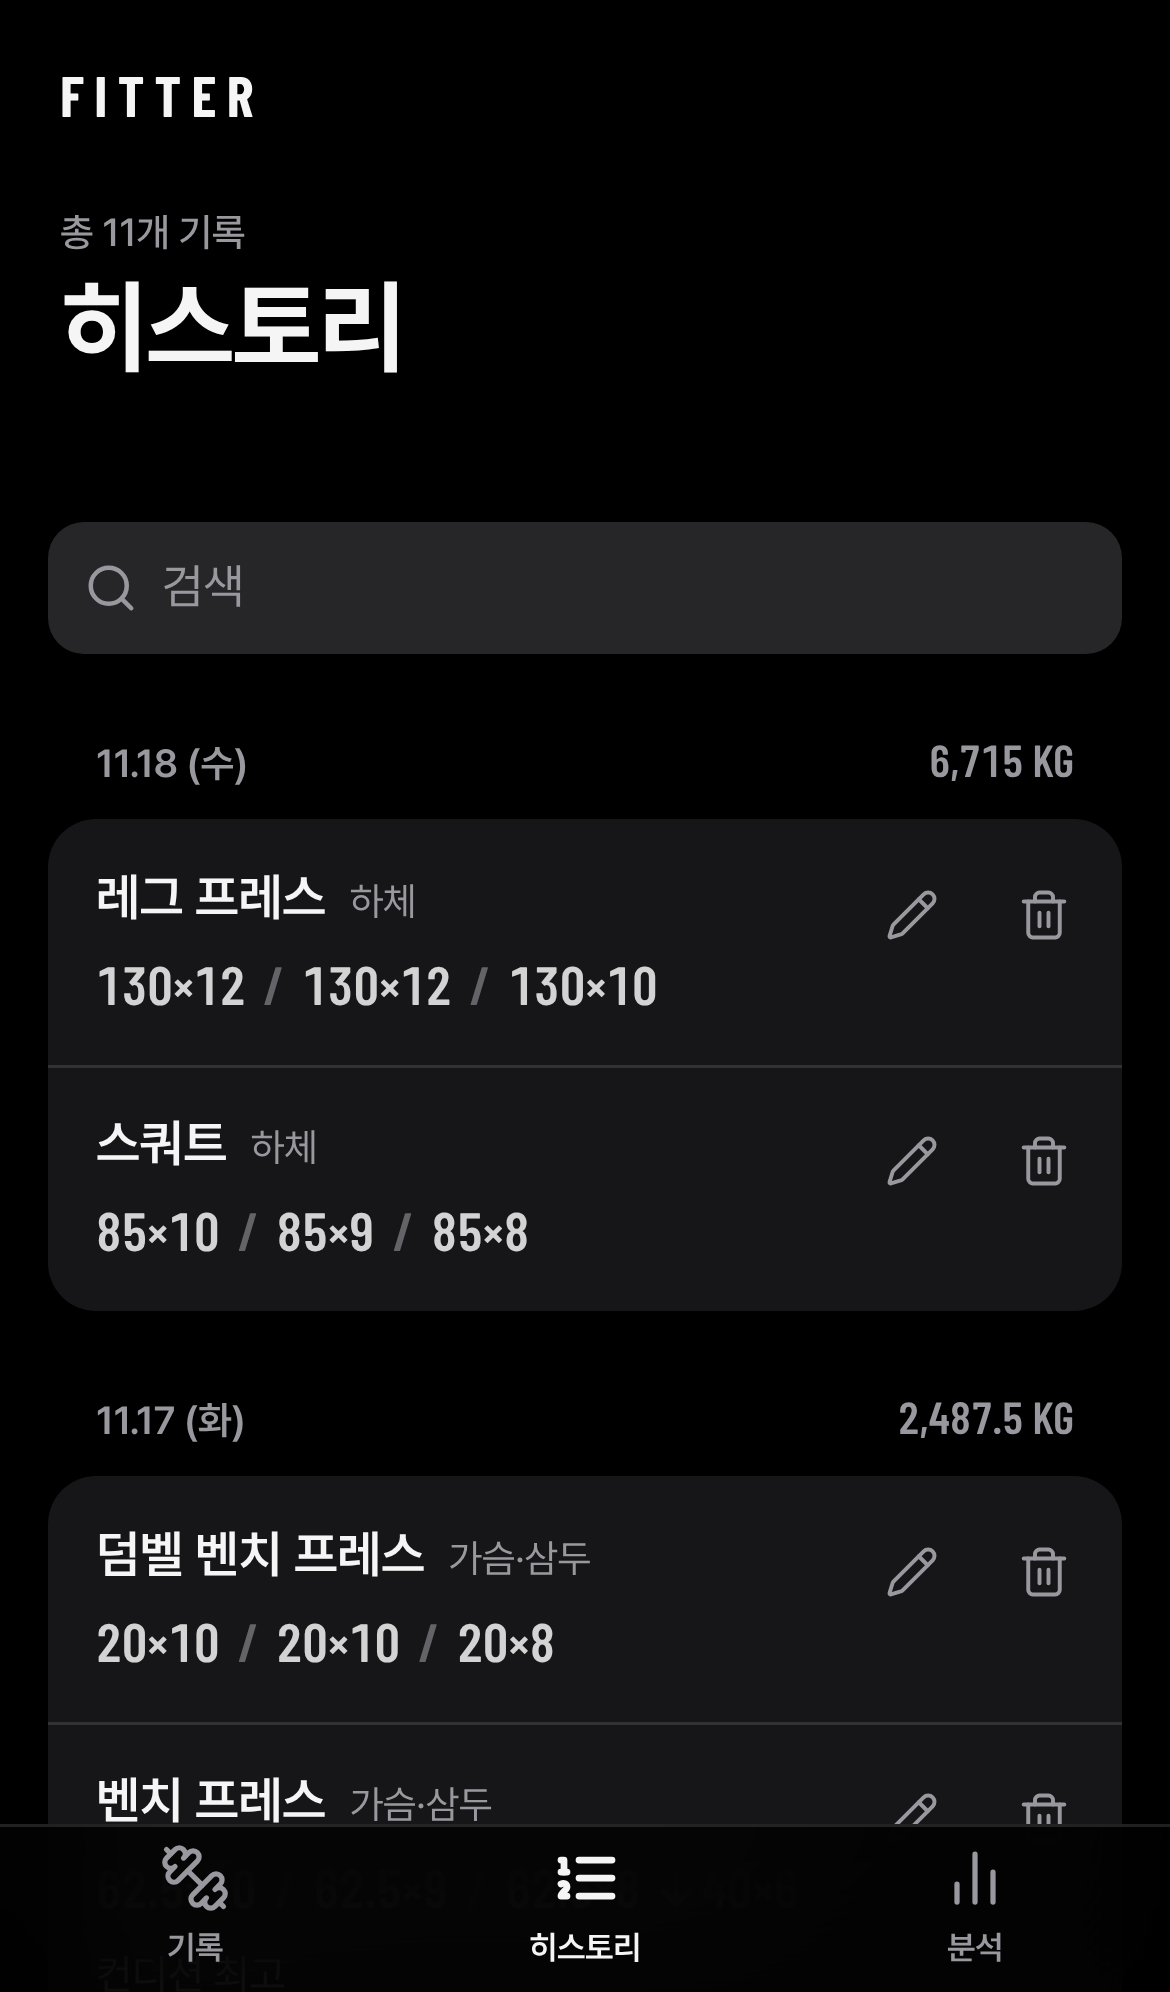
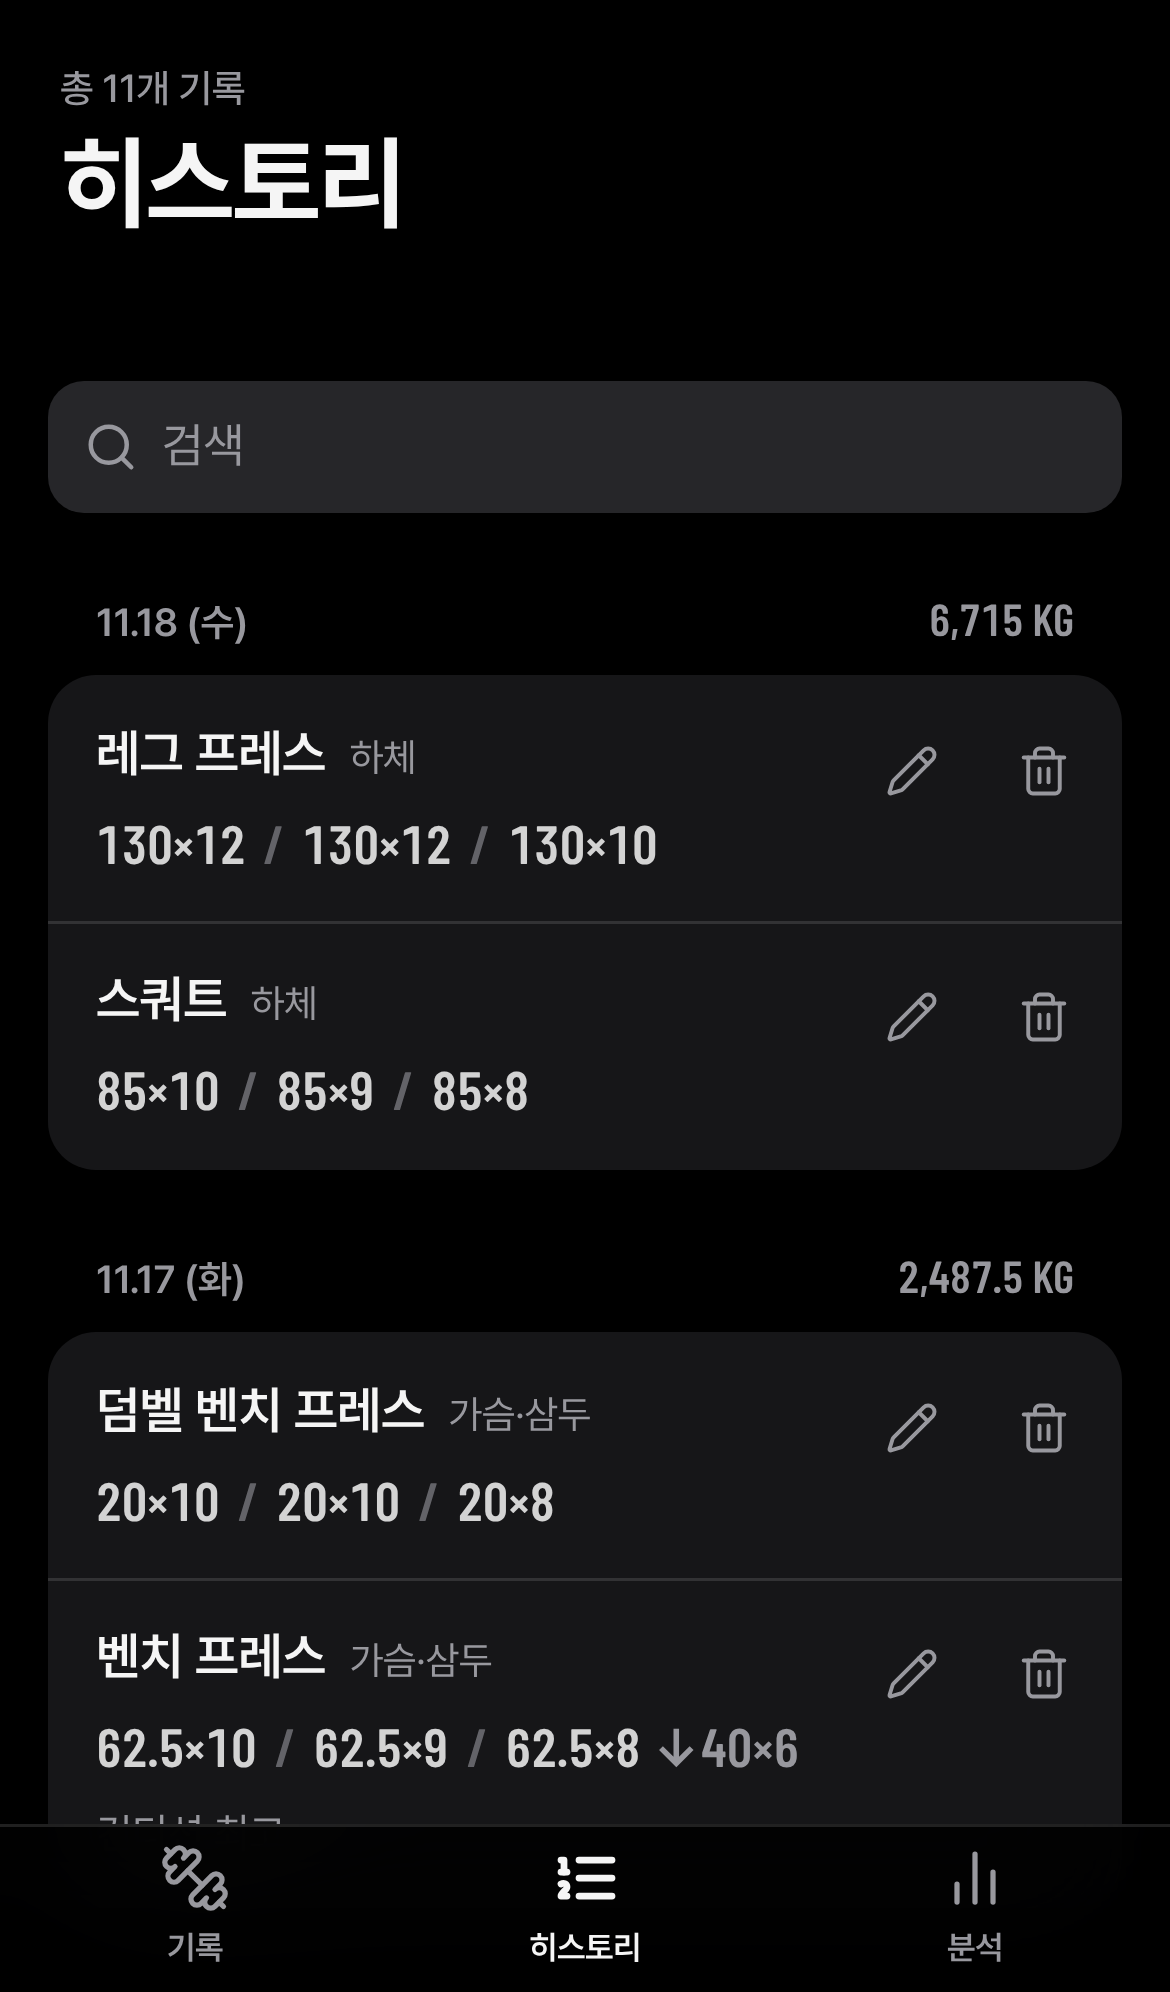
실행 시 FITTER 스플래시 추가, 상단 워드마크 제거
Claude-Session: https://claude.ai/code/session_01Qo6dAT2y3vhN6wj4omQPxB

diff --git a/src/App.tsx b/src/App.tsx
@@ -8,6 +8,7 @@ import HistoryList from './components/HistoryList';
 import Dashboard from './components/Dashboard';
 import AddExerciseSheet from './components/AddExerciseSheet';
 import Toast from './components/Toast';
+import Splash from './components/Splash';
 import type { CustomExercise, Routine, WorkoutLog } from './lib/types';
 
 type Tab = 'log' | 'history' | 'stats';
@@ -30,6 +31,7 @@ export default function App() {
   const [sheet, setSheet] = useState<{ open: boolean; routine: Routine }>({ open: false, routine: '가슴·삼두' });
   const [pending, setPending] = useState<CustomExercise | null>(null);
   const [toast, setToast] = useState<string | null>(null);
+  const [ready, setReady] = useState(false);
 
   useEffect(() => {
     if (!toast) return;
@@ -45,13 +47,15 @@ export default function App() {
   };
 
   return (
+    <>
+    <Splash onDone={() => setReady(true)} />
     <div className="min-h-screen pb-[calc(88px+env(safe-area-inset-bottom))]">
-      <header className="max-w-md mx-auto px-5 pt-[max(env(safe-area-inset-top),16px)] pb-5">
-        <div className="flex items-center justify-between h-8">
-          <span className="font-display text-[19px] font-bold tracking-[0.18em]">FITTER</span>
-          {w.loading && <Loader2 aria-label="불러오는 중" className="w-[18px] h-[18px] animate-spin text-sub" />}
+      <div className={ready ? 'app-enter' : 'opacity-0'}>
+      <header className="max-w-md mx-auto px-5 pt-[max(env(safe-area-inset-top),20px)] pb-5">
+        <div className="flex items-center gap-2 h-5">
+          <p className="caption">{tab === 'log' ? todayLabel() : `총 ${w.logs.length}개 기록`}</p>
+          {w.loading && <Loader2 aria-label="불러오는 중" className="w-3.5 h-3.5 animate-spin text-sub" />}
         </div>
-        <p className="caption mt-5">{tab === 'log' ? todayLabel() : `총 ${w.logs.length}개 기록`}</p>
         <div className="flex items-end justify-between">
           <h1 className="text-[34px] font-bold leading-tight tracking-[-0.02em]">{TITLES[tab]}</h1>
           {tab === 'log' && (
@@ -109,8 +113,9 @@ export default function App() {
 
         {tab === 'stats' && <Dashboard logs={w.logs} />}
       </main>
+      </div>
 
-      <nav aria-label="주 메뉴" className="fixed bottom-0 inset-x-0 z-50 bg-bg/85 backdrop-blur-xl backdrop-saturate-150 shadow-[inset_0_1px_0_var(--sep)] pb-[env(safe-area-inset-bottom)]">
+      <nav aria-label="주 메뉴" className={`${ready ? 'app-fade' : 'opacity-0'} fixed bottom-0 inset-x-0 z-50 bg-bg/85 backdrop-blur-xl backdrop-saturate-150 shadow-[inset_0_1px_0_var(--sep)] pb-[env(safe-area-inset-bottom)]`}>
         <div className="max-w-md mx-auto grid grid-cols-3 h-[56px]">
           {TABS.map(({ id, label, Icon }) => {
             const on = tab === id;
@@ -142,5 +147,6 @@ export default function App() {
       />
       <Toast msg={toast} />
     </div>
+    </>
   );
 }

diff --git a/src/components/Splash.tsx b/src/components/Splash.tsx
@@ -1,0 +1,59 @@
+import { useEffect, useState } from 'react';
+
+type Phase = 'wait' | 'in' | 'out' | 'done';
+
+const KEY = 'fitter.splashShown';
+const reduced = () => window.matchMedia('(prefers-reduced-motion: reduce)').matches;
+
+/** 실행 시 한 번만: 검은 화면에 FITTER 워드마크 → 앱 화면으로 페이드 전환. 탭하면 건너뜀 */
+export default function Splash({ onDone }: { onDone: () => void }) {
+  const [phase, setPhase] = useState<Phase>(() => {
+    try {
+      return sessionStorage.getItem(KEY) ? 'done' : 'wait';
+    } catch {
+      return 'wait';
+    }
+  });
+
+  useEffect(() => {
+    // 스플래시가 사라지기 시작할 때 앱이 함께 떠오르도록(크로스페이드)
+    if (phase === 'out' || phase === 'done') {
+      onDone();
+      return;
+    }
+    if (phase !== 'wait') return;
+    try {
+      sessionStorage.setItem(KEY, '1');
+    } catch {
+      /* noop */
+    }
+    // 폰트가 준비된 뒤 등장시켜 글꼴이 바뀌며 깜빡이지 않게
+    const fontTimeout = new Promise((r) => setTimeout(r, 600));
+    Promise.race([document.fonts?.ready ?? Promise.resolve(), fontTimeout]).then(() => setPhase('in'));
+  }, [phase, onDone]);
+
+  useEffect(() => {
+    if (phase === 'in') {
+      const t = setTimeout(() => setPhase('out'), reduced() ? 600 : 1300);
+      return () => clearTimeout(t);
+    }
+    if (phase === 'out') {
+      const t = setTimeout(() => setPhase('done'), reduced() ? 150 : 450);
+      return () => clearTimeout(t);
+    }
+  }, [phase]);
+
+  if (phase === 'done') return null;
+
+  return (
+    <div
+      onClick={() => setPhase('out')}
+      aria-hidden
+      className={`fixed inset-0 z-[100] grid place-items-center bg-[#111] transition-opacity duration-[450ms] ease-apple ${phase === 'out' ? 'opacity-0' : 'opacity-100'}`}
+    >
+      <span className={`splash-mark font-display font-bold text-[#F2F2F0] text-[44px] leading-none ${phase === 'wait' ? 'opacity-0' : 'splash-in'}`}>
+        FITTER
+      </span>
+    </div>
+  );
+}

diff --git a/src/index.css b/src/index.css
@@ -55,3 +55,20 @@ input[type='date']::-webkit-calendar-picker-indicator { opacity: .45; }
   .tap { @apply transition-opacity duration-150 active:opacity-50; }
   .no-scrollbar::-webkit-scrollbar { display: none; }
 }
+
+/* 스플래시: 넓게 퍼진 자간이 모이며 나타남 */
+.splash-mark { letter-spacing: 0.22em; padding-left: 0.22em; }
+.splash-in { animation: splash-in 900ms cubic-bezier(0.22, 1, 0.36, 1) both; }
+@keyframes splash-in {
+  from { opacity: 0; letter-spacing: 0.6em; padding-left: 0.6em; }
+  to { opacity: 1; letter-spacing: 0.22em; padding-left: 0.22em; }
+}
+.app-enter { animation: app-enter 500ms cubic-bezier(0.22, 1, 0.36, 1) both; }
+@keyframes app-enter {
+  from { opacity: 0; transform: translateY(8px); }
+  to { opacity: 1; transform: none; }
+}
+
+/* 고정 요소(탭 바)는 transform 없이 투명도만: transform이 남으면 position:fixed 기준이 바뀜 */
+.app-fade { animation: app-fade 500ms ease-out both; }
+@keyframes app-fade { from { opacity: 0; } to { opacity: 1; } }

diff --git a/index.html b/index.html
@@ -10,6 +10,7 @@
     <link rel="icon" href="/icon.svg" type="image/svg+xml" />
     <link rel="apple-touch-icon" href="/icon.svg" />
     <title>FITTER</title>
+    <style>html{background:#111}</style>
   </head>
   <body>
     <div id="root"></div>
